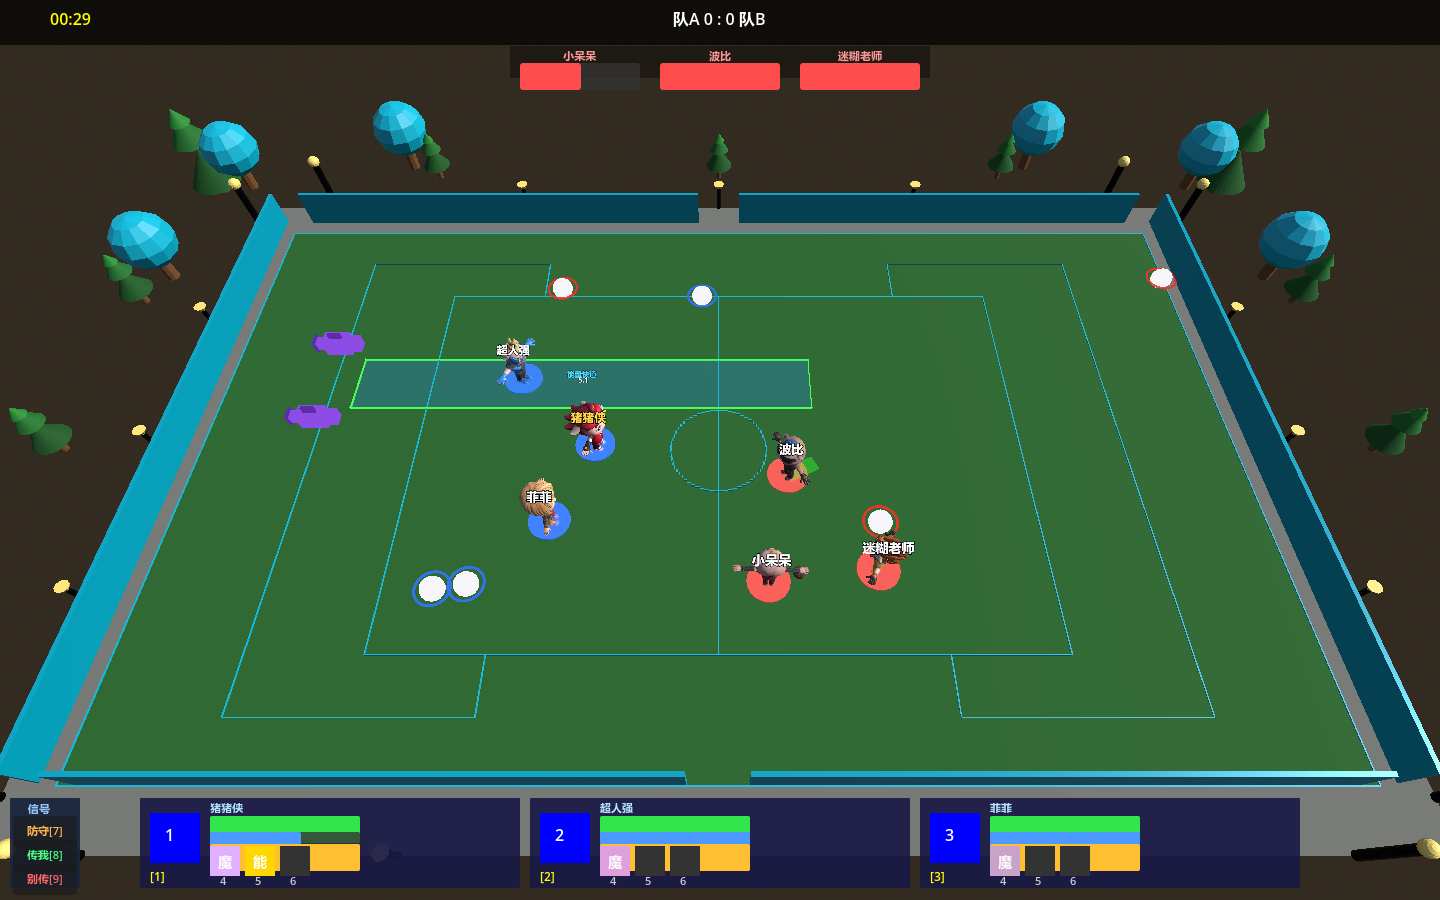
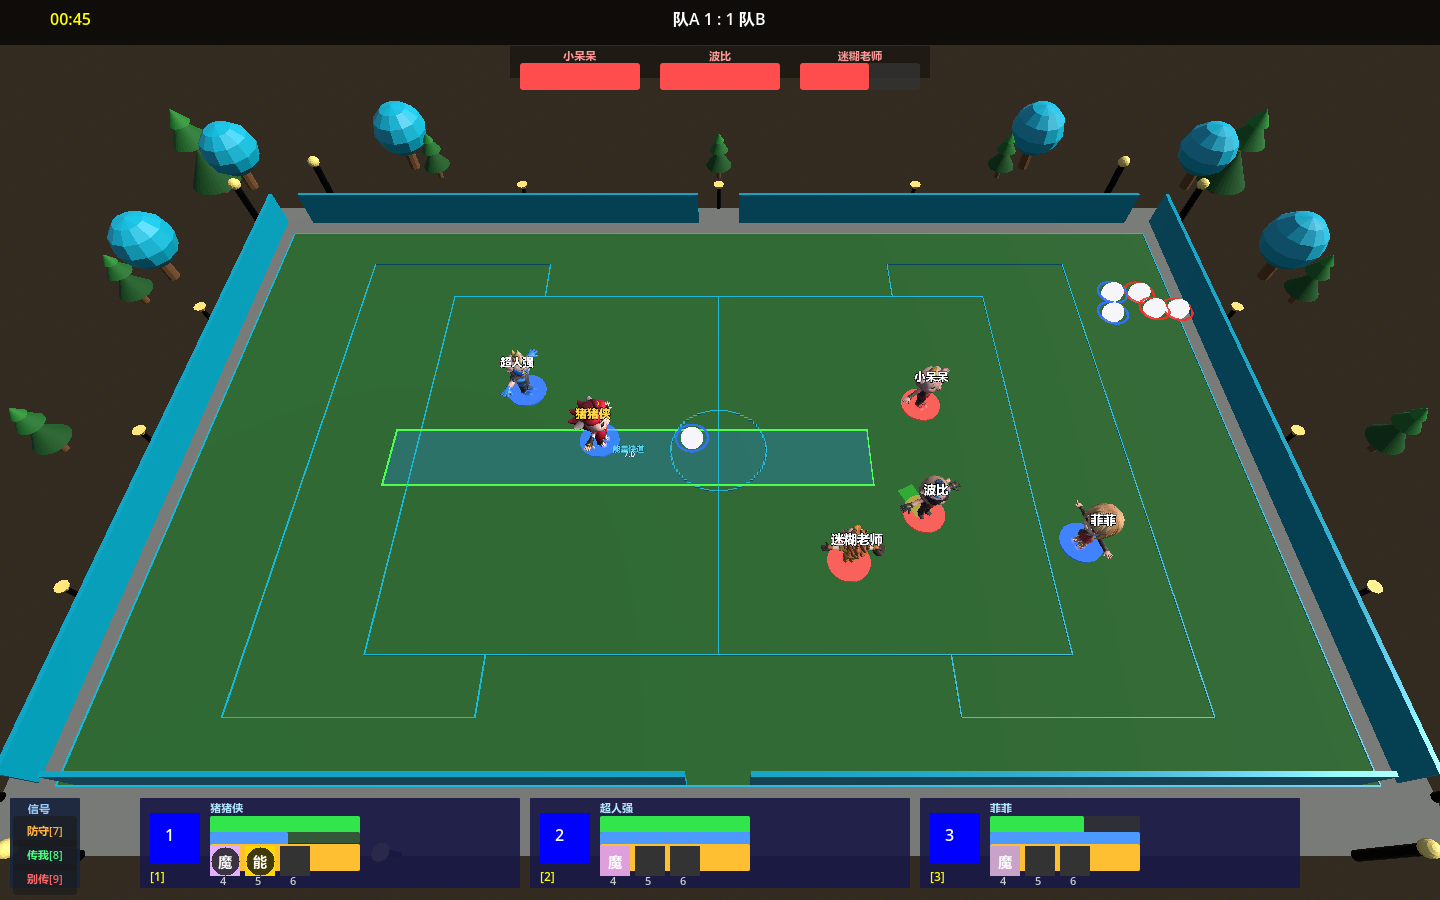
feat: 平台窗口/白球玩家操控链+双鲨自动融合+生成位修正（主人实机三问题闭环）——summon_entity增_unhandled_input操控链(左键选球48px→选中高亮1.35x→左键点目标出击:攻球锁定最近敌飞行到达爆炸范围90伤害含能量强化翻倍链/守球飞最近队友道具交付→到达即despawn用后消失,右键取消)+manager双鲨自动融合(同队攻+守共存即try_merge大鲨鱼,无需快道前置)+自动生成位改敌方外场带(确定性轮转散布禁randi)；实拍shot_04白球群在敌外场带红环攻蓝环守+SPAWNED16次

diff --git a/工作日志/2026-10-01.md b/工作日志/2026-10-01.md
@@ -188,3 +188,11 @@
 - **套件回归**：summon_visuals 34/34 + visual_bridge 19/19 + item_granter ✅ + team_combo 17/17 + original_trio 44/44 + platform 36/36（T组断言改对账式：主装载随轮次演进，断言不再绑死元灵名/数量）
 - **sim 门禁隔离实验**：实测态（master+全波）3种子=危险3项（传球率33.3%/42.9%红线下探+卡死1）→ **全关隔离复跑=危险0**（66.7%/89.8%/100%全正常带）→ 定性=开波态已知行为位移（Q14 家族：开波后传接变化+墙/召唤物在场，非本轮三修引入——三修只涉召唤链，主数据 sim 无召唤物零影响）
 - **开关处置**：恢复实测态（主人测试中，1001-2 登记）；开波态危险项已并入 Q14→T4/T5 裁决面
+
+## 追加九：白球玩家操控链+双鲨自动融合+生成位修正（主人实机三问题全闭环）
+
+- **玩家操控链（此前完全缺失，本轮补全）**：summon_entity 增 _unhandled_input——①左键点白球附近(≤48px)=选中（3D 球体放大1.35提示，仅主人操控角色的白球响应）②选中后左键点目标=出击（攻球锁定点击点最近敌人飞行→到达爆炸：范围90内敌人 take_damage[能量强化伤害翻倍链接通]；守球飞向最近队友→道具交付[granter 链]）③右键=取消。飞行过程实体直奔指令点，3D 代理每帧跟随=飞行画面自动可见；**到达即 despawn（"用后不消失"修复）**
+- **双鲨自动融合**：manager 周期扫描——同队攻鲨+守鲨共存即 try_merge→shuimu_shark_bomb（主人裁"主攻+防御水鲨应自动合并"）
+- **生成位置修正（auto 路径）**：自动生成的白球改生成在敌方外场带（确定性轮转散布，randi 禁用）——实拍 shot_04：白球群（红环攻+蓝环守）出现在敌方外场带，与原作"外场上空生成"一致
+- **验证**：三文件编译零错；实机一场 SUMMON_SPAWNED 16 次（白球体系持续出货）；截图 5 张存 docs/img/23demo
+- **纪律注记**：叠加 summon_manager 集成域 WIP 之上（同文件追加，无冲突）
